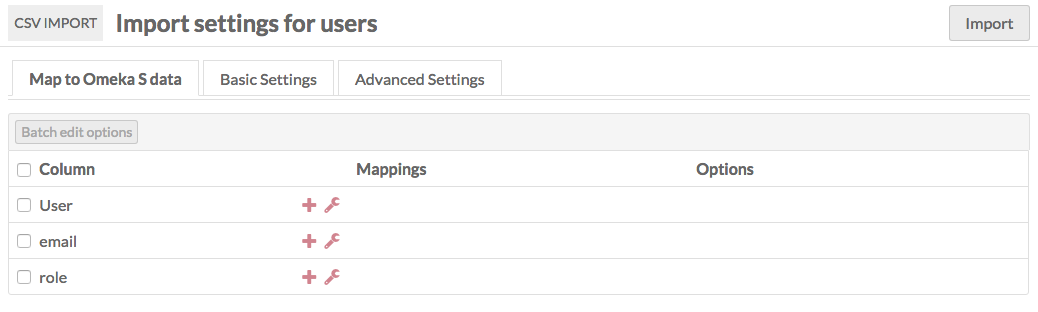
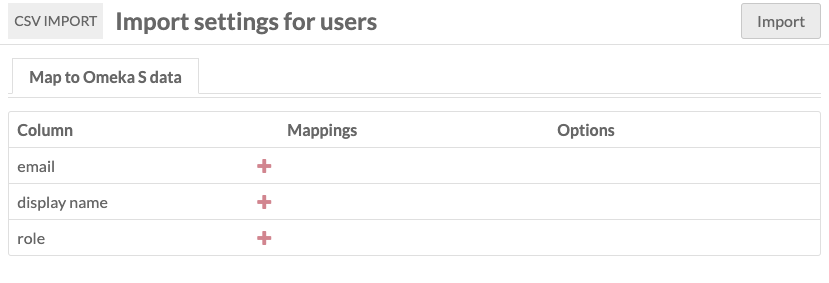
CSV Import updates
Updated User section to reflect latest release.

diff --git a/docs/modules/csvimport.md b/docs/modules/csvimport.md
@@ -626,17 +626,14 @@ This tab displays an initial dropdown above a table with the columns from your s
 - a Checkbox
 - Column header from the spreadsheet
 - A plus symbol button for adding or modifying a mapping
-- A wrench symbol button for spreadsheet column options
 - A trash can to delete mappings
 - A column to show options selected
 
 ![Table as described above, with rows for User, email, and role.](../modules/modulesfiles/csvimport_users.png)
 
-#### Mapping options
-
 To map a column header to a vocabulary property, click on the plus symbol button to the left of the column header. This will open a drawer on the right-hand side of the screen. 
 
-![A red arrow points to the plus sign button to the left of the word "title"](../modules/modulesfiles/csvimport_itemsMapButton.png)
+![A red arrow points to the plus sign button to the left of the word "title"](../modules/modulesfiles/csvimport_usersMapButton.png)
 
 The drawer has a dropdown for Users info, with three options:
 
@@ -644,30 +641,11 @@ The drawer has a dropdown for Users info, with three options:
 - *Display name:* the user's display name
 - *Role:* the user's [role](../admin/users/#roles-and-permissions) - for this column, use the role labels exactly as they appear in Omeka S. 
 
-#### Column options
-To access options for data in a column of your csv (represented by a row in the import table), click the wrench icon for that column heading. 
+![The same table as above, now with the mapping drawer open and the dropdown activated to show the three options.](../modules/modulesfiles/csvimport_usersMap.png)
 
-![A red arrow points to the wrench button to the left of the word "title"](../modules/modulesfiles/csvimport_itemsMapOptions.png)
+Once you have completed the mappings, click the Import button.
 
-Column options are in addition to mappings. If you add options without also mapping column data to resource, media, or other data, nothing will be imported. 
-
-This will open a drawer on the right side of the browser window with the following options: 
-
-- **Use multivalve separator:** check this box to use the multivalue separator for data in this column. You set the multivalue separator in the initial import page, but you can change it in the Basic Settings tab.  
-- **Language:** is a field where you can set the language for this column using the [IETF Language tag](https://en.wikipedia.org/wiki/IETF_language_tag) for the language in which the text is written. This will override what you have entered in basic settings. 
-- **Data type:** is a dropdown with three options, which correspond to the [values](../content/items/#values) one can use when adding properties to an item:
-	- Import as text (default).
-	- Import as URL reference. You can set the label for the URI by including the desired text after a space, for example:  `http://example.com This Is The Label`
-	- Import as Omeka S resource ID. Note that you must have the correct ID for the resource. A resources' ID is the number sequence at the end of the url when on the view or edit page, so for `/admin/item/11576` the ID is 11576.
-	- If you have certain modules installed, such as Numeric Data Types, there may be additional data type options supplied by those modules.
-- **Import values as private**: check this box to set all property values *in this column* private.
-
-#### Batch edit
-When you select one or more rows in the table (columns from your csv file), you can use the "Batch edit options" button to apply the column options described above - language and data type - to multiple csv columns at once. 
-
-![a screenshot of the Mapping tab, with the boxes for Columns user checked. A red arrow points to the Batch edit options button. On the right side of the screen, a drawer offers options for changing the settings as described](../modules/modulesfiles/csvimport_batchEditUser.png)
-
-Be sure to click the Apply Changes button at the bottom of the drawer in order to save your changes. 
+The CSV Import for Users does not have tabs for Basic or Advanced Settings. 
 
 ## Manage Past Imports
 
